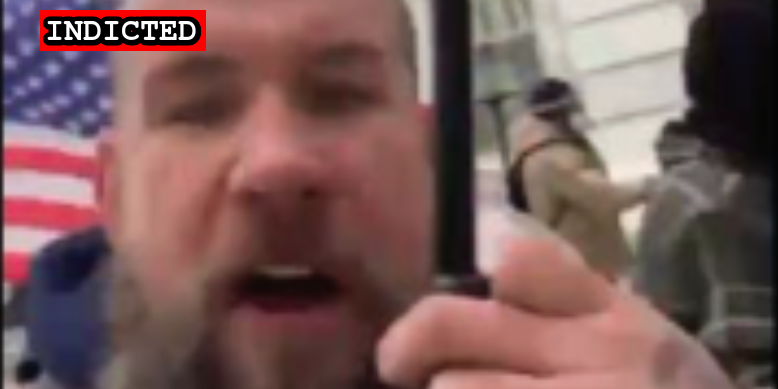
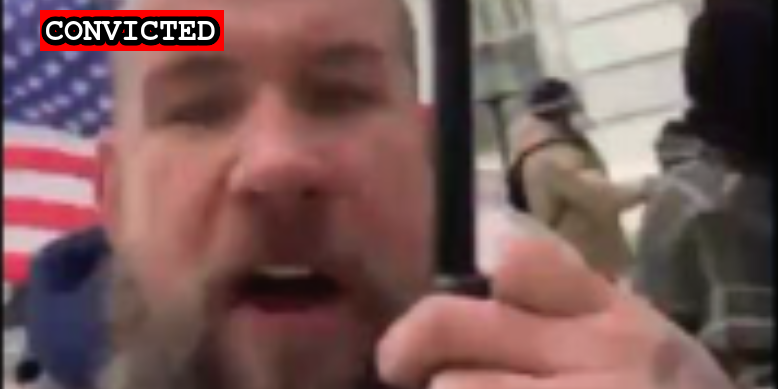
new convictions

Changed region(s): [[0.0308, 0.0308, 0.3085, 0.1542]]

diff --git a/docs/_suspects/scott-fairlamb.md b/docs/_suspects/scott-fairlamb.md
@@ -3,11 +3,11 @@ name: Scott Fairlamb
 lastName: Fairlamb
 aka:
 residence: New Jersey
-status: Indicted
+status: Convicted
 date: 2021-01-22
 charged: 2021-01-22
 indicted: 2021-02-12
-convicted:
+convicted: 2021-08-06
 sentenced:
 dismissed:
 deceased:

diff --git a/docs/_suspects/devlyn-thompson.md b/docs/_suspects/devlyn-thompson.md
@@ -3,11 +3,11 @@ name: Devlyn Thompson
 lastName: Thompson
 aka:
 residence:
-status: Charged
+status: Convicted
 date: 2021-07-11
 charged: 2021-07-11
 indicted:
-convicted:
+convicted: 2021-08-06
 sentenced:
 dismissed:
 deceased:
